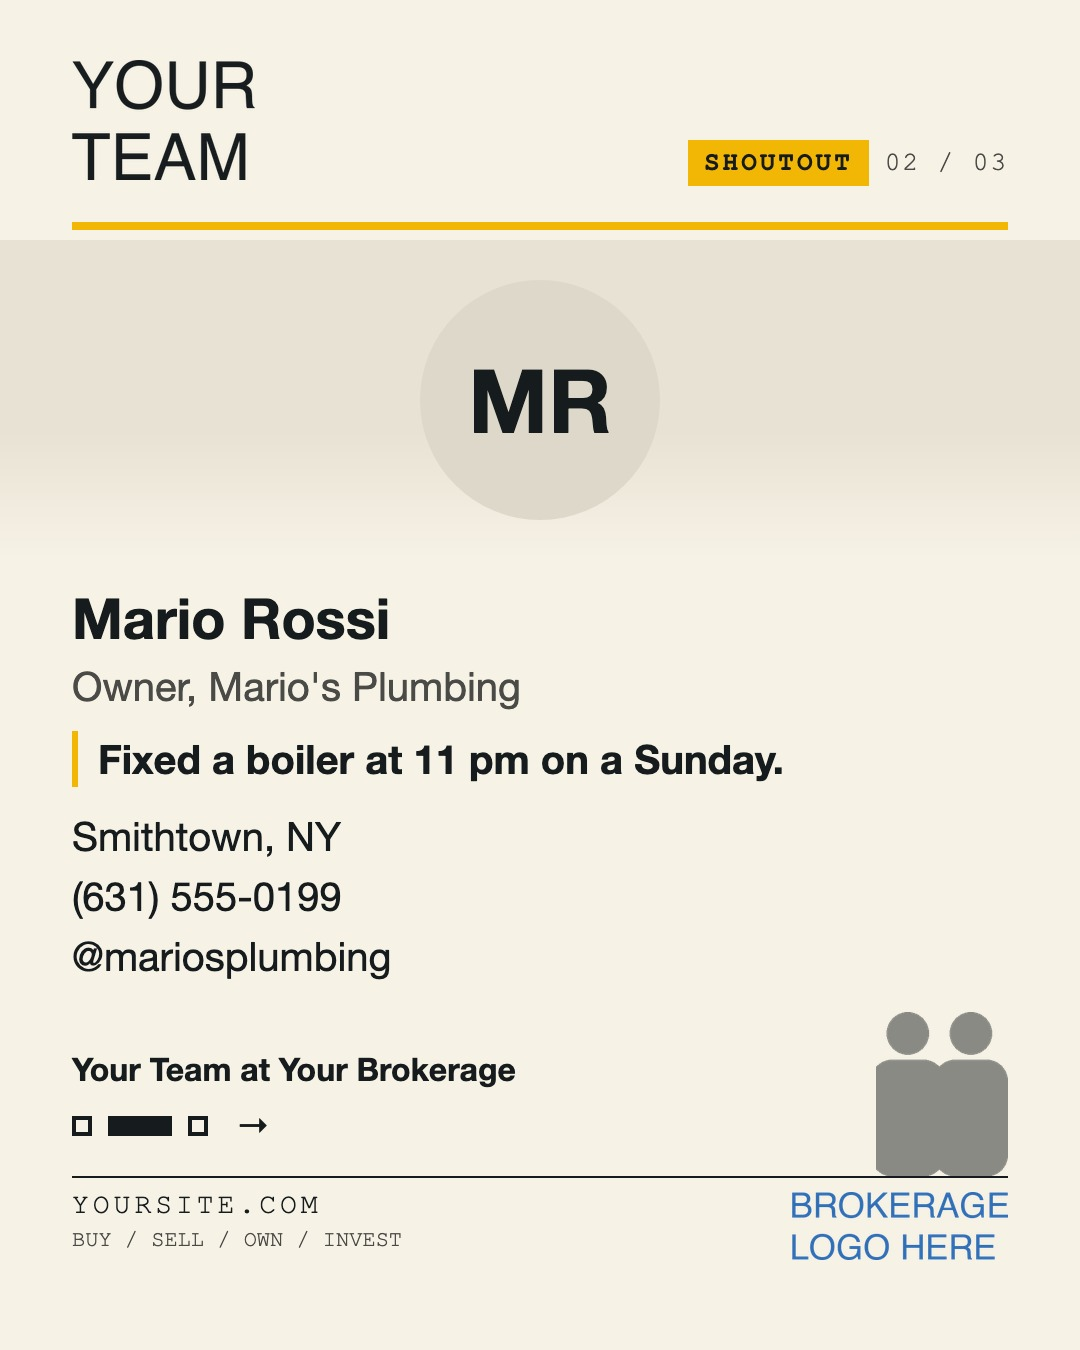
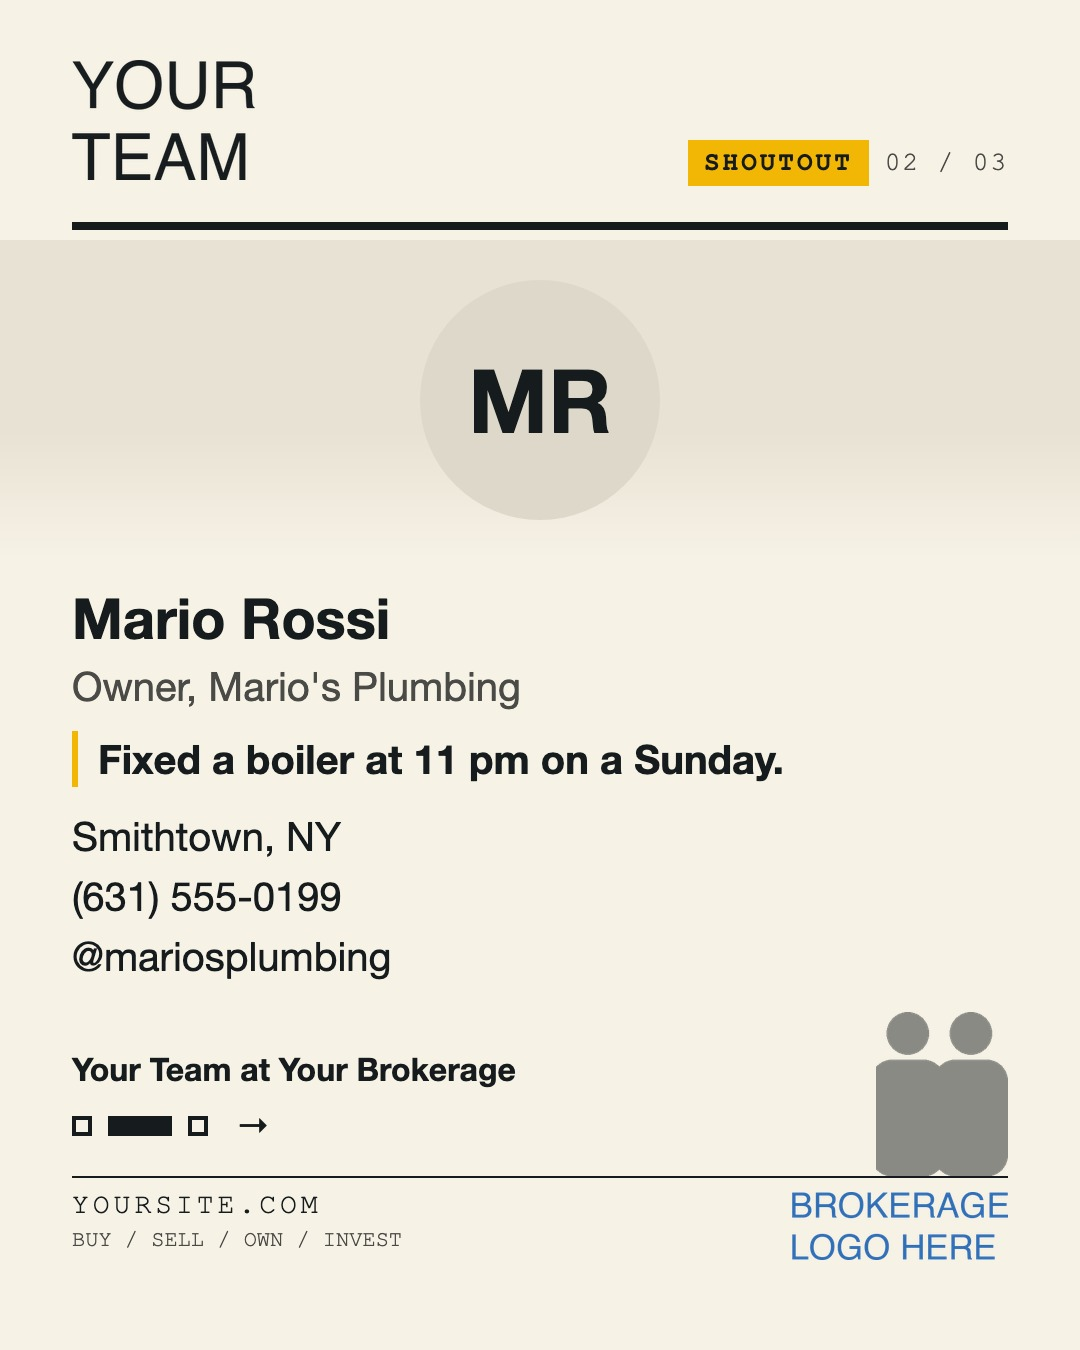
Set the header rule in ink so gold is left for the tag and the highlight

Changed region(s): [[0.0611, 0.1556, 0.9472, 0.1867]]

diff --git a/render.py b/render.py
@@ -47,7 +47,7 @@ body{{background:#ccc;font-family:'DM Sans',-apple-system,'Helvetica Neue',sans-
 .lane{{position:absolute;top:140px;right:{MARGIN}px;display:flex;align-items:center;gap:16px;font-family:'Courier New',monospace;font-size:26px;white-space:nowrap}}
 .lane .tag{{background:{c['accent']};color:{c['ink']};padding:8px 16px;font-weight:700;letter-spacing:3px}}
 .lane .num{{letter-spacing:2px;color:{c['muted']}}}
-.gr{{position:absolute;top:222px;left:{MARGIN}px;right:{MARGIN}px;height:8px;background:{c['accent']}}}
+.gr{{position:absolute;top:222px;left:{MARGIN}px;right:{MARGIN}px;height:8px;background:{c['ink']}}}
 .flow{{position:absolute;top:290px;left:{MARGIN}px;right:110px;bottom:298px;display:flex;flex-direction:column;gap:48px}}
 .flow.who{{top:584px;gap:12px}}
 .h{{font-size:92px;font-weight:800;line-height:1.3;letter-spacing:-2px;text-wrap:balance}}
